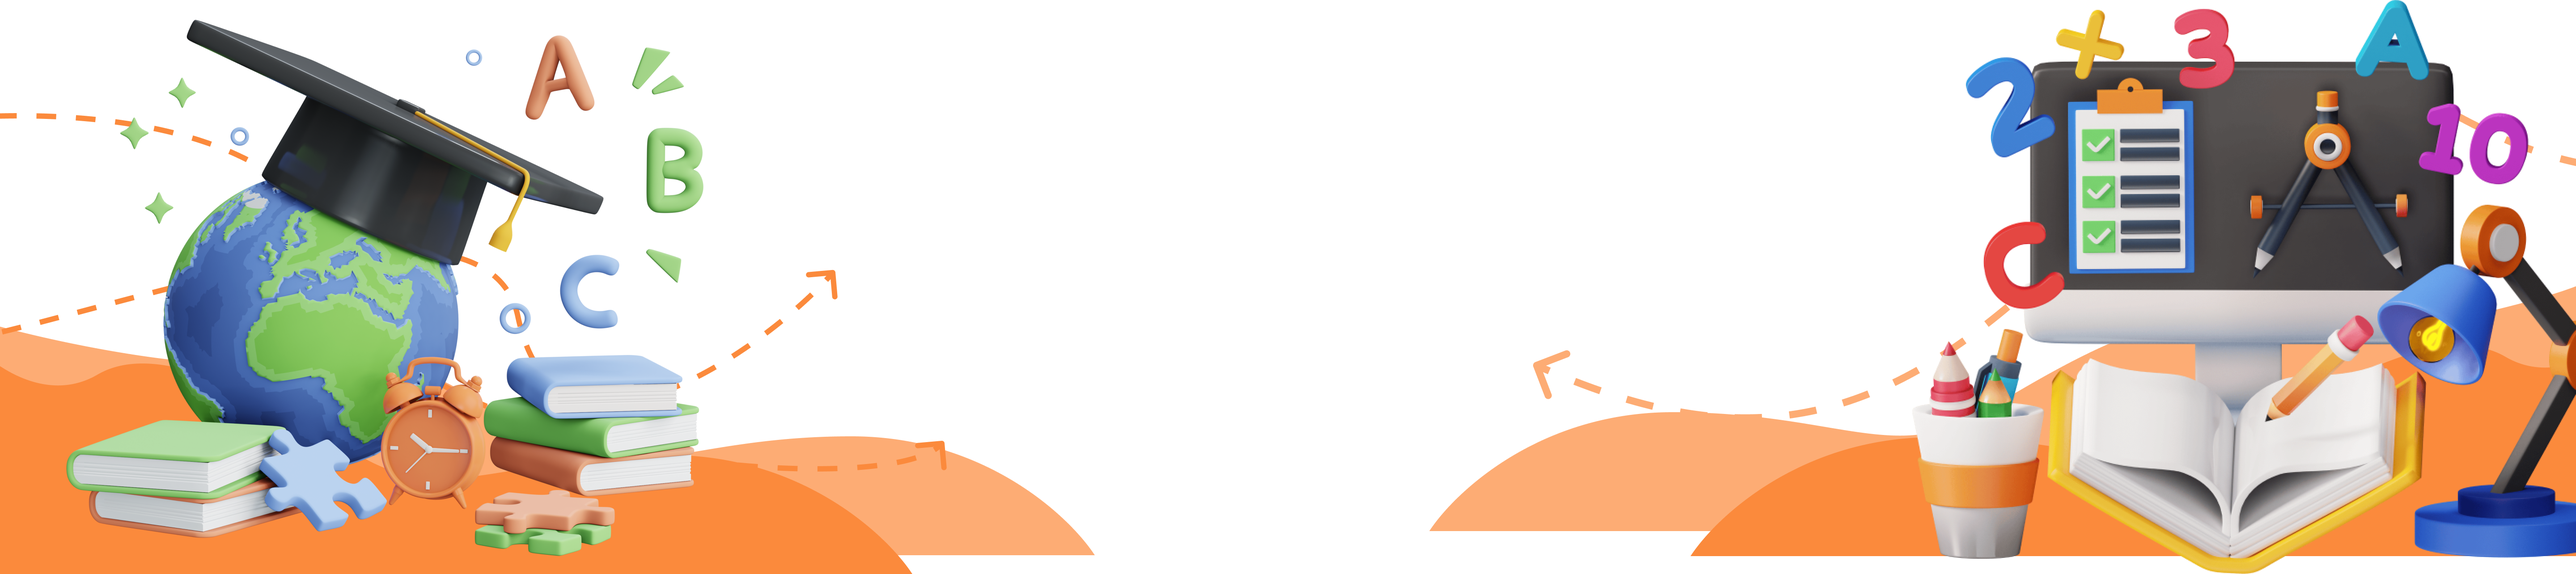
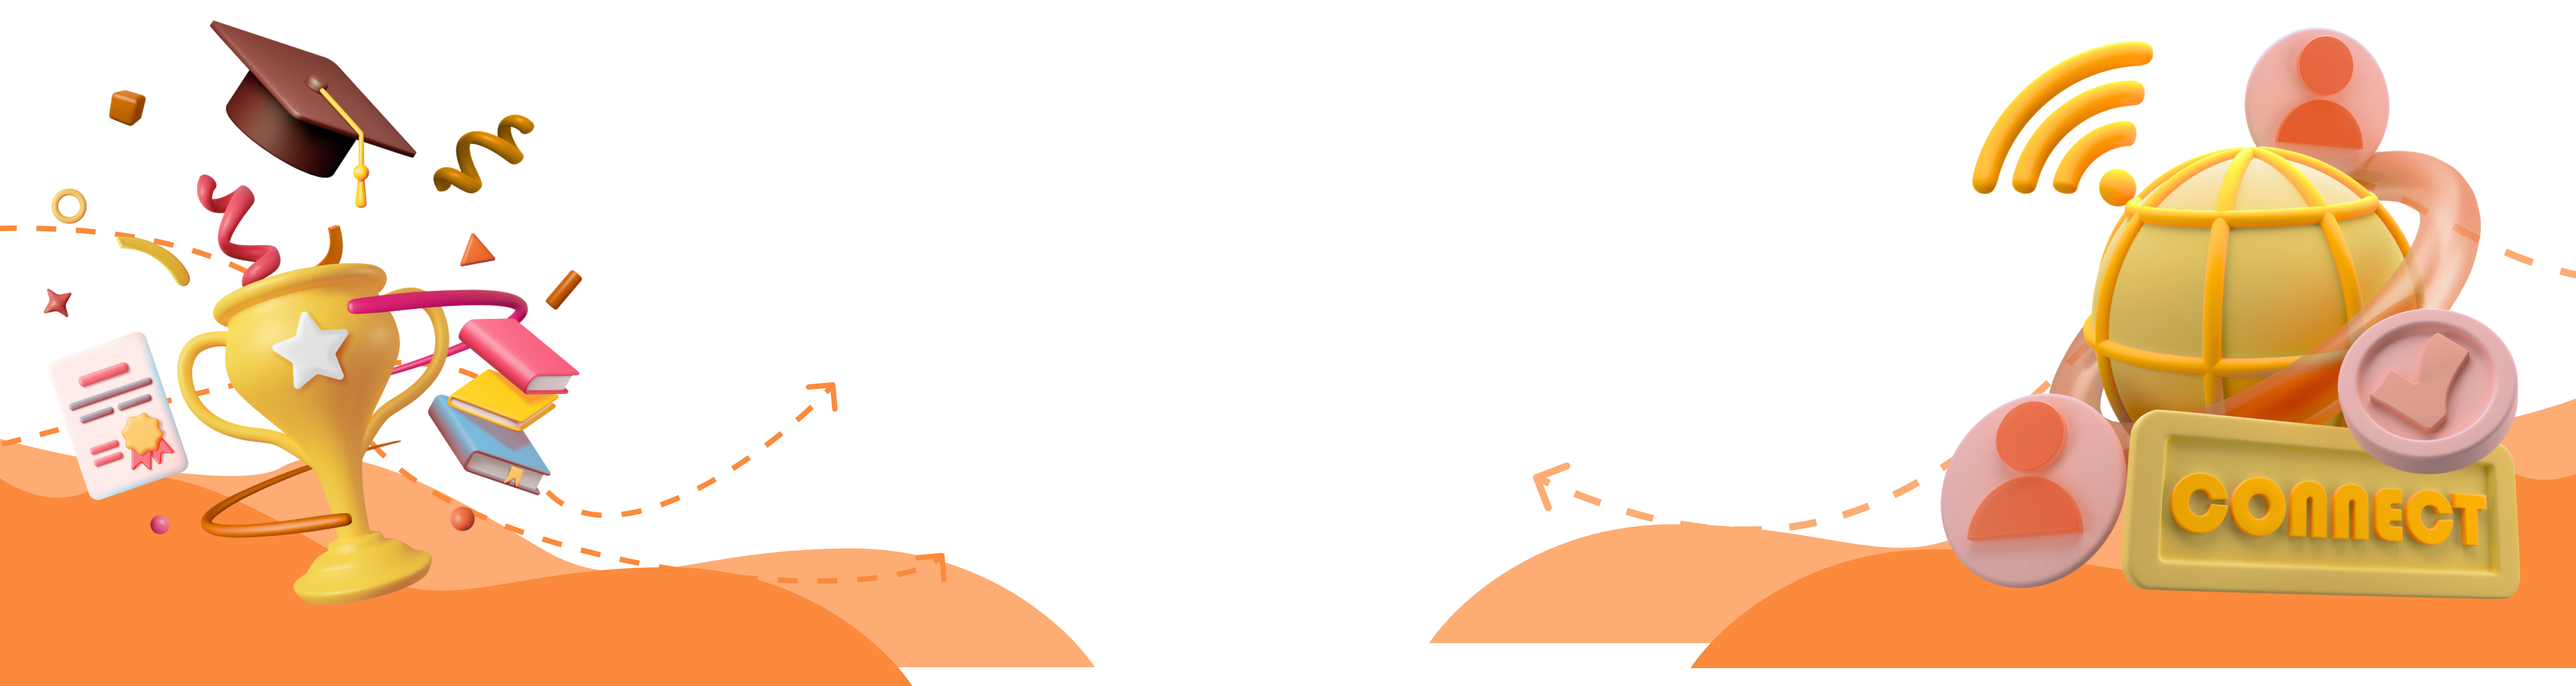
fix: asset change, text placeholder change, and auth layout revision

diff --git a/resources/js/Components/templates/AuthTemplate/AuthTemplate.jsx b/resources/js/Components/templates/AuthTemplate/AuthTemplate.jsx
@@ -1,25 +1,105 @@
+import LandingTitle from "@/Components/atoms/Landing/LandingTitle";
+import LogoIcon from "@/Components/atoms/LogoIcon/LogoIcon";
+import Description from "@/Components/atoms/Text/Description";
+import Title from "@/Components/atoms/Text/Title";
 import AuthHeader from "@/Components/molecules/Auth/AuthHeader";
 import AuthHero from "@/Components/molecules/Auth/AuthHero";
 import { Link } from "@inertiajs/react";
 
-export default function AuthTemplate({ title, desc, children }) {
+export default function AuthTemplate({
+    title,
+    desc,
+    children,
+    register = false,
+}) {
     return (
-        <section className="grid md:grid-cols-2 grid-cols-1 bg-gray-50">
-            {/* Left */}
-            <div className="bg-orange-500 w-1/2 h-screen md:flex hidden items-center justify-center fixed left-0">
-                <AuthHero />
+        <section className="grid min-h-screen md:grid-cols-2 grid-cols-1 bg-gray-50 relative">
+            <div className="col-span-2 row-span-1 grid md:grid-cols-2 grid-cols-1 md:fixed w-full z-[2]">
+                <div className="w-full p-6 bg-orange-500 md:block hidden">
+                    <div className="w-full flex justify-between">
+                        <div>
+                            <LogoIcon width="w-40" />
+                        </div>
+                    </div>
+                </div>
+                <div className="w-full p-6 bg-gray-50">
+                    <div className="w-full flex justify-between">
+                        <div className="flex w-full items-start justify-between">
+                            <div>
+                                <Title size="text-[2rem]" title={title} />
+                                <div className="md:w-3/5 w-full">
+                                    <Description desc={desc} />
+                                </div>
+                            </div>
+                            <Link href={route("landing")}>
+                                <svg
+                                    xmlns="http://www.w3.org/2000/svg"
+                                    width="24"
+                                    height="24"
+                                    viewBox="0 0 24 24"
+                                    fill="none"
+                                >
+                                    <path
+                                        d="M9.16986 15.58C8.97986 15.58 8.78986 15.51 8.63986 15.36C8.34986 15.07 8.34986 14.59 8.63986 14.3L14.2999 8.64C14.5899 8.35 15.0699 8.35 15.3599 8.64C15.6499 8.93 15.6499 9.41 15.3599 9.7L9.69986 15.36C9.55986 15.51 9.35986 15.58 9.16986 15.58Z"
+                                        fill="currentColor"
+                                    />
+                                    <path
+                                        d="M14.8299 15.58C14.6399 15.58 14.4499 15.51 14.2999 15.36L8.63986 9.7C8.34986 9.41 8.34986 8.93 8.63986 8.64C8.92986 8.35 9.40986 8.35 9.69986 8.64L15.3599 14.3C15.6499 14.59 15.6499 15.07 15.3599 15.36C15.2099 15.51 15.0199 15.58 14.8299 15.58Z"
+                                        fill="currentColor"
+                                    />
+                                    <path
+                                        d="M15 22.75H9C3.57 22.75 1.25 20.43 1.25 15V9C1.25 3.57 3.57 1.25 9 1.25H15C20.43 1.25 22.75 3.57 22.75 9V15C22.75 20.43 20.43 22.75 15 22.75ZM9 2.75C4.39 2.75 2.75 4.39 2.75 9V15C2.75 19.61 4.39 21.25 9 21.25H15C19.61 21.25 21.25 19.61 21.25 15V9C21.25 4.39 19.61 2.75 15 2.75H9Z"
+                                        fill="currentColor"
+                                    />
+                                </svg>
+                            </Link>
+                        </div>
+                    </div>
+                </div>
             </div>
+            <div className="w-1/2 h-full px-6 pb-6 row-span-3 bg-orange-500 md:block hidden fixed left-0 bottom-0">
+                <div className="w-full h-full flex items-center justify-center">
+                    <LandingTitle>
+                        {register ? (
+                            <>
+                                Welcome! <br />{" "}
+                                <span className="text-white">
+                                    {" "}
+                                    Let’s Start Your Learning Journey with Joni!
+                                </span>
+                            </>
+                        ) : (
+                            <>
+                                Welcome Back! <br />{" "}
+                                <span className="text-white">
+                                    Your Learning Journey is Ready to Begin!
+                                </span>
+                            </>
+                        )}
+                    </LandingTitle>
+                </div>
+            </div>
+            <div className="md:block hidden row-span-1"></div>
+            <div className="w-full h-full px-6 pb-6 row-span-3 md:pt-40">
+                <div className="md:w-[95%] w-full h-full flex flex-col justify-center">
+                    {children}
+                </div>
+            </div>
+            {/* Left */}
+            {/* <div className="bg-orange-500 w-1/2 h-screen md:flex hidden items-center justify-center fixed left-0">
+                <AuthHero />
+            </div> */}
 
             {/* Empty Space */}
-            <div className="md:block hidden"></div>
+            {/* <div className="md:block hidden"></div> */}
 
             {/* Right */}
-            <div className="bg-gray-50 w-full min-h-screen flex justify-center items-center">
+            {/* <div className="bg-gray-50 w-full min-h-screen flex justify-center items-center">
                 <div className="w-4/5 space-y-12 h-full flex flex-col justify-center py-10">
                     <AuthHeader title={title} desc={desc} />
                     {children}
                 </div>
-            </div>
+            </div> */}
         </section>
     );
 }

diff --git a/resources/js/Components/organisms/Landing/MenuSection.jsx b/resources/js/Components/organisms/Landing/MenuSection.jsx
@@ -9,24 +9,25 @@ export default function MenuSection() {
         >
             <div className="md:w-3/5 w-full">
                 <LandingTitle color="text-white">
-                    Figma ipsum component variant main layer. Content flows text
+                    Tingkatkan Pengalaman Belajar dengan{" "}
+                    <span className="text-black">Fitur Terbaik</span> Joni
                 </LandingTitle>
             </div>
             <div className="flex md:flex-row flex-col md:gap-0 gap-6 justify-evenly w-full">
                 <LandingMenuCard
                     image="/assets/materi-icon.png"
                     title="Materi"
-                    desc="Materi terstuktur untuk mata pelajaran jaringan komputer"
+                    desc="Kemudahan Mengakses Materi Pembelajaran "
                 />
                 <LandingMenuCard
                     image="/assets/kelompok-icon.png"
                     title="Kelompok"
-                    desc="Materi terstuktur untuk mata pelajaran jaringan komputer"
+                    desc="Lebih Mudah Mengerjakan Tugas Bersama Teman-Teman"
                 />
                 <LandingMenuCard
                     image="/assets/referensi-icon.png"
-                    title="Referensi"
-                    desc="Materi terstuktur untuk mata pelajaran jaringan komputer"
+                    title="Akses Realtime"
+                    desc="Nikmati Akses Absensi hingga Penilaian Secara Realtime"
                 />
             </div>
         </section>

diff --git a/resources/js/Components/organisms/Landing/AboutSection.jsx b/resources/js/Components/organisms/Landing/AboutSection.jsx
@@ -14,11 +14,15 @@ export default function AboutSection({ userLogin }) {
                 <LandingAboutImage />
                 <div className="md:w-1/2 w-full space-y-6">
                     <LandingTitle align="text-left">
-                        Menyajikan konten pembelajaran langsung dari guru
+                        Menyajikan{" "}
+                        <span className="text-orange-500">
+                            konten pembelajaran langsung
+                        </span>{" "}
+                        dari guru
                     </LandingTitle>
                     <Description
                         size="text-2xl"
-                        desc="Platform Inter memberikan fitur yang mana guru dapat memberikan materi pembelajaran kepada siswanya yakni menggabungkan materi berupa text dan video."
+                        desc="Nikmati fitur dimana guru dapat memberikan materi pembelajaran kepada siswanya yakni menggabungkan materi berupa text dan video."
                     />
                     <Link
                         href={

diff --git a/resources/js/Components/molecules/Landing/LandingHeroTitle.jsx b/resources/js/Components/molecules/Landing/LandingHeroTitle.jsx
@@ -7,7 +7,7 @@ export default function LandingHeroTitle({ desc }) {
             <div className="md:w-3/5 w-full">
                 <LandingTitle>
                     Belajar Bersama{" "}
-                    <span className="text-orange-500">Jarot</span> Untuk
+                    <span className="text-orange-500">Joni</span> Untuk
                     Tingkatkan Skillmu
                 </LandingTitle>
             </div>
@@ -15,7 +15,7 @@ export default function LandingHeroTitle({ desc }) {
                 <Description
                     size="text-2xl"
                     align="text-center"
-                    desc="Figma ipsum component variant main layer. Distribute horizontal polygon effect ipsum scale reesizing"
+                    desc="Raih kemudahan belajar yang menyenangkan untuk membantumu memahami konsep-konsep dasar hingga teknik konfigurasi jaringan yang lebih kompleks"
                 />
             </div>
         </>

diff --git a/resources/js/Components/molecules/Dashboard/DashboardGreet.jsx b/resources/js/Components/molecules/Dashboard/DashboardGreet.jsx
@@ -1,4 +1,5 @@
 import Description from "@/Components/atoms/Text/Description";
+import TextGradient from "@/Components/atoms/Text/TextGradient";
 import Title from "@/Components/atoms/Text/Title";
 
 export default function DashboardGreet({ userLogin, desc, icon = false }) {
@@ -6,11 +7,7 @@ export default function DashboardGreet({ userLogin, desc, icon = false }) {
         <div className="p-6 rounded-md bg-gray-50 w-full flex justify-between items-center">
             <div className="space-y-4">
                 <div className="line-clamp-2">
-                    <Title
-                        title={`Hai ${userLogin.name}`}
-                        color="text-orange-500"
-                        size="text-[2rem]"
-                    />
+                    <TextGradient text={`Hai, ${userLogin.name}`} />
                 </div>
                 <Description desc={desc} />
             </div>

diff --git a/resources/js/Pages/Auth/Register.jsx b/resources/js/Pages/Auth/Register.jsx
@@ -22,7 +22,11 @@ export default function Register() {
     };
 
     return (
-        <AuthTemplate title="Register" desc="Daftar untuk memulai pembelajaran">
+        <AuthTemplate
+            register
+            title="Register"
+            desc="Daftar untuk memulai pembelajaran"
+        >
             <form onSubmit={handleOnSubmit}>
                 <div className="space-y-6">
                     <div>

diff --git a/resources/js/Components/atoms/LogoIcon/LogoIcon.jsx b/resources/js/Components/atoms/LogoIcon/LogoIcon.jsx
@@ -1,7 +1,7 @@
 export default function LogoIcon({ width = "w-32", white = false }) {
     return (
         <img
-            src={white ? "/assets/logo-white.png" : "/assets/logo.png"}
+            src={white ? "/assets/logo.png" : "/assets/logo.png"}
             alt="Logo"
             className={`${width}`}
         />

diff --git a/resources/js/Components/atoms/Footer/Footer.jsx b/resources/js/Components/atoms/Footer/Footer.jsx
@@ -2,7 +2,7 @@ export default function Footer() {
     return (
         <footer className="w-full bg-orange-500 py-4">
             <p className="text-lg text-white text-center">
-                Copyright - JagoRouting 2024
+                Copyright - JagoConfig 2024
             </p>
         </footer>
     );

diff --git a/resources/js/Components/atoms/Text/TextGradient.jsx b/resources/js/Components/atoms/Text/TextGradient.jsx
@@ -1,0 +1,7 @@
+export default function TextGradient({ text }) {
+    return (
+        <p className="text-[2rem] font-bold bg-gradient-to-r from-orange-500 to-orange-900 text-transparent bg-clip-text">
+            {text}
+        </p>
+    );
+}
